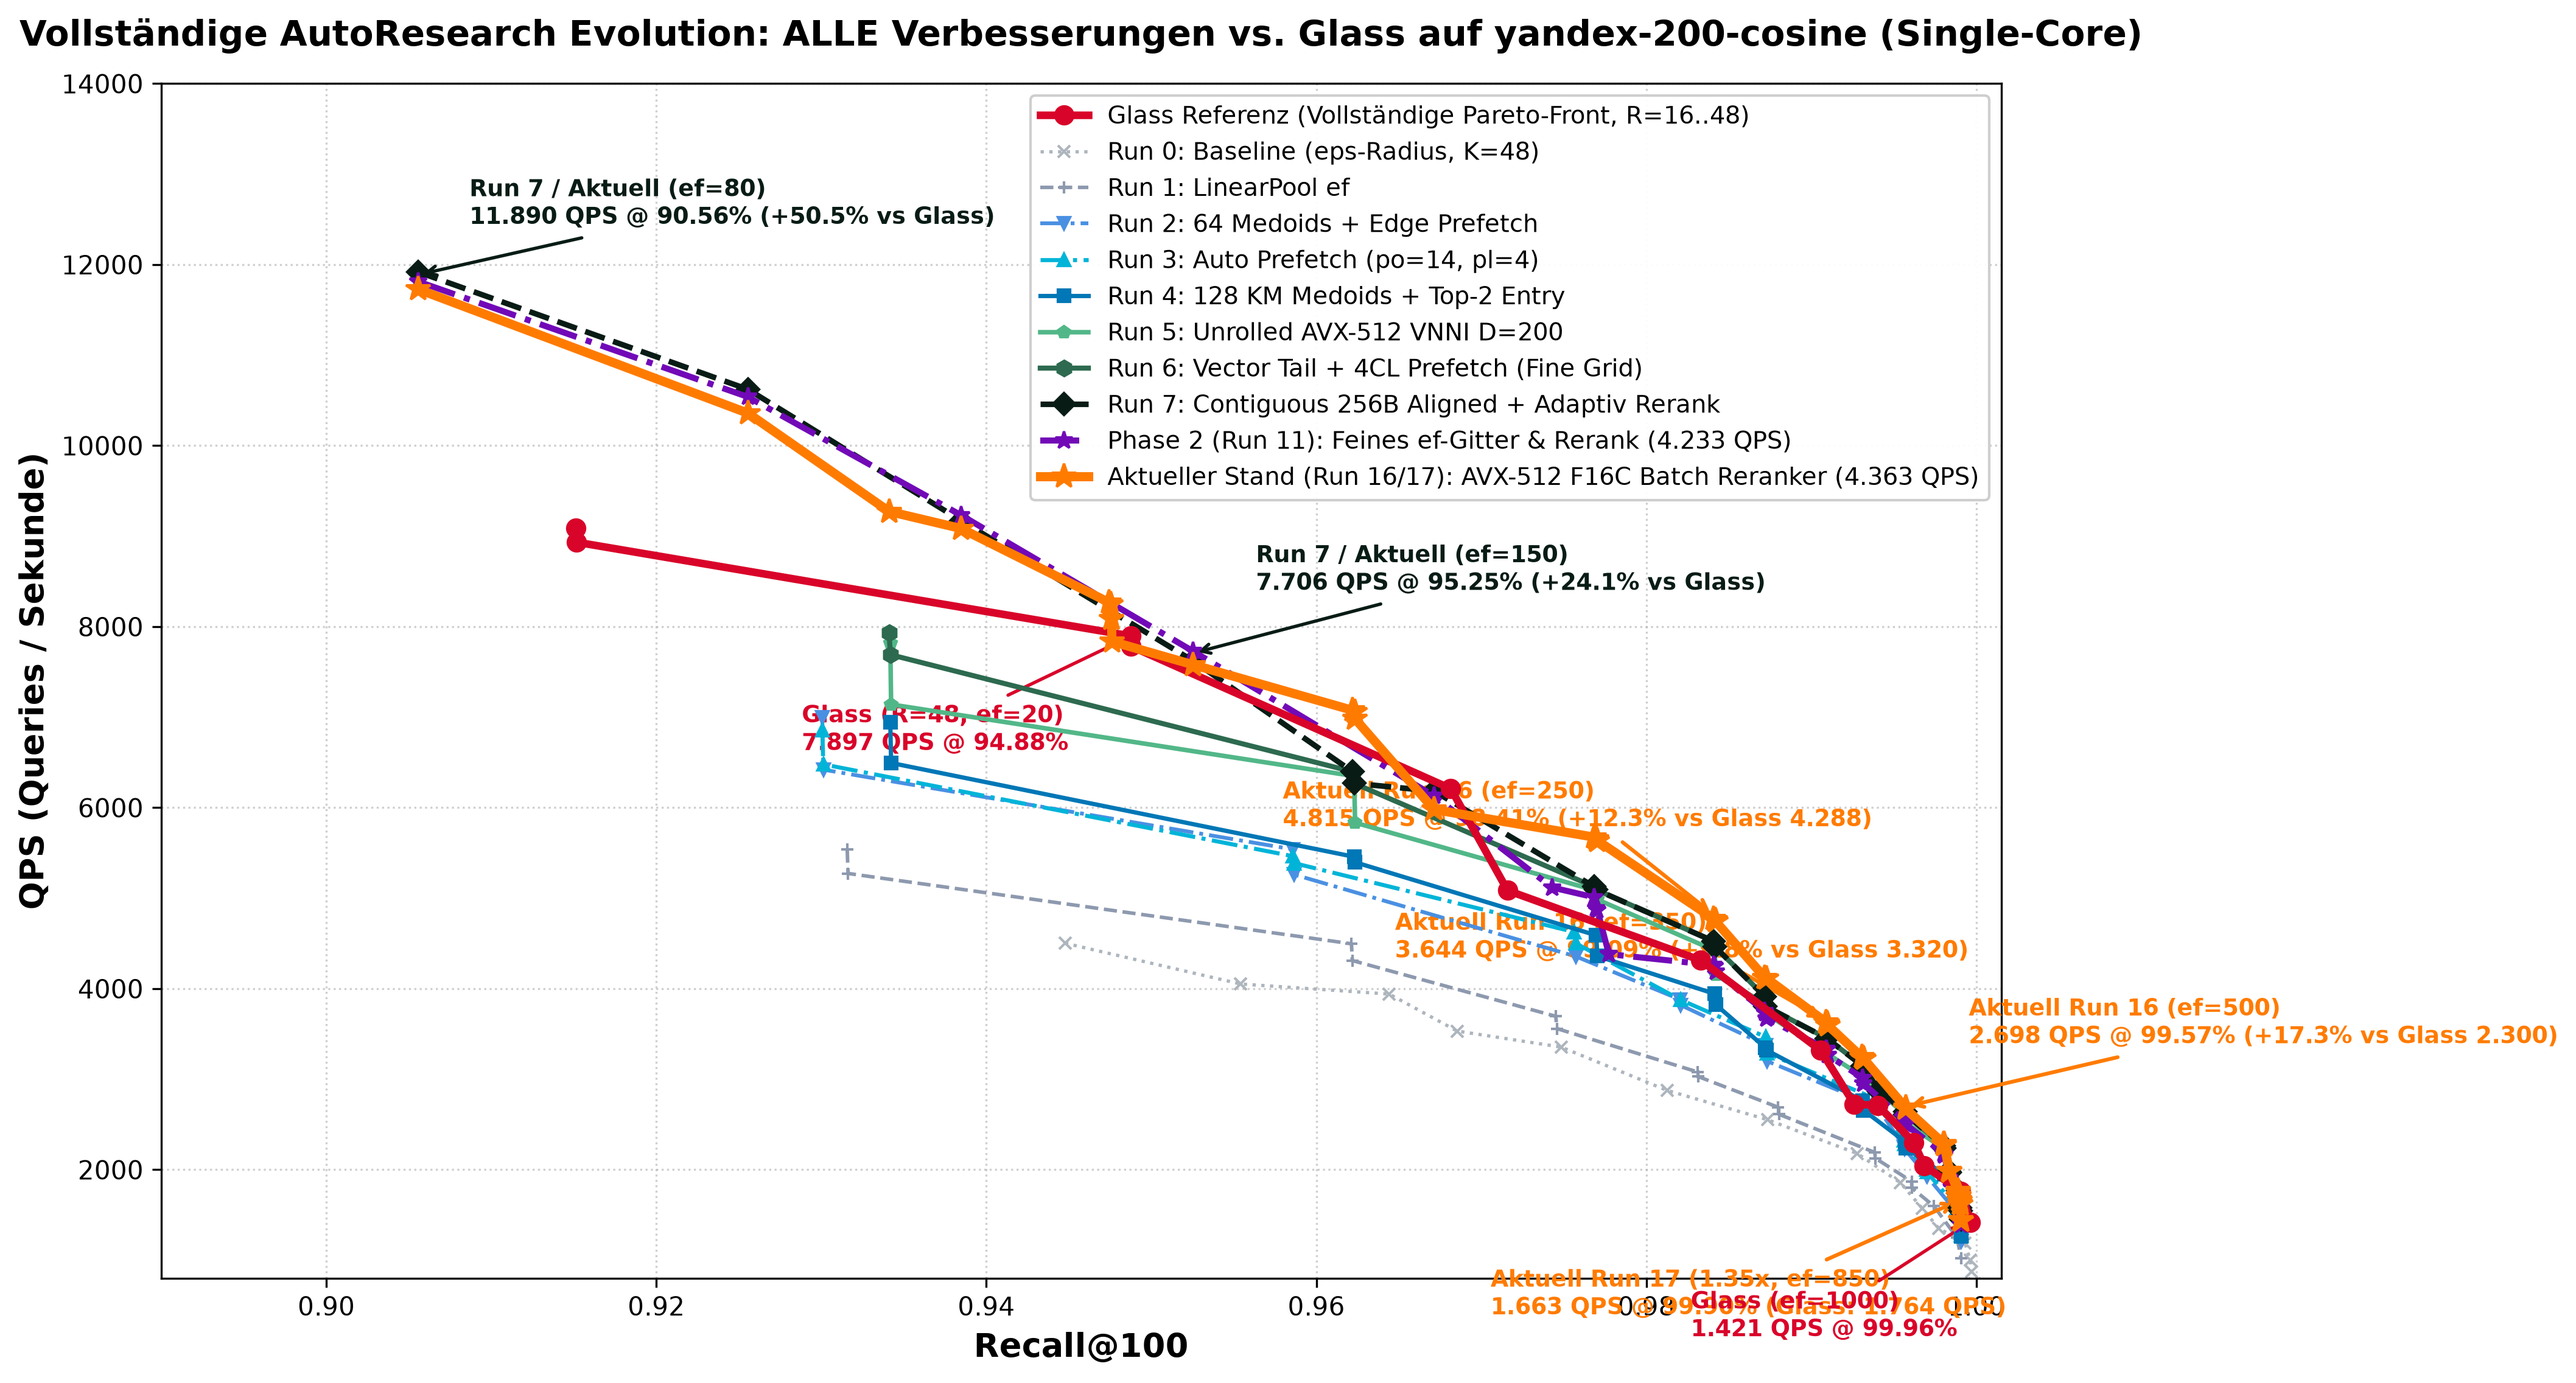
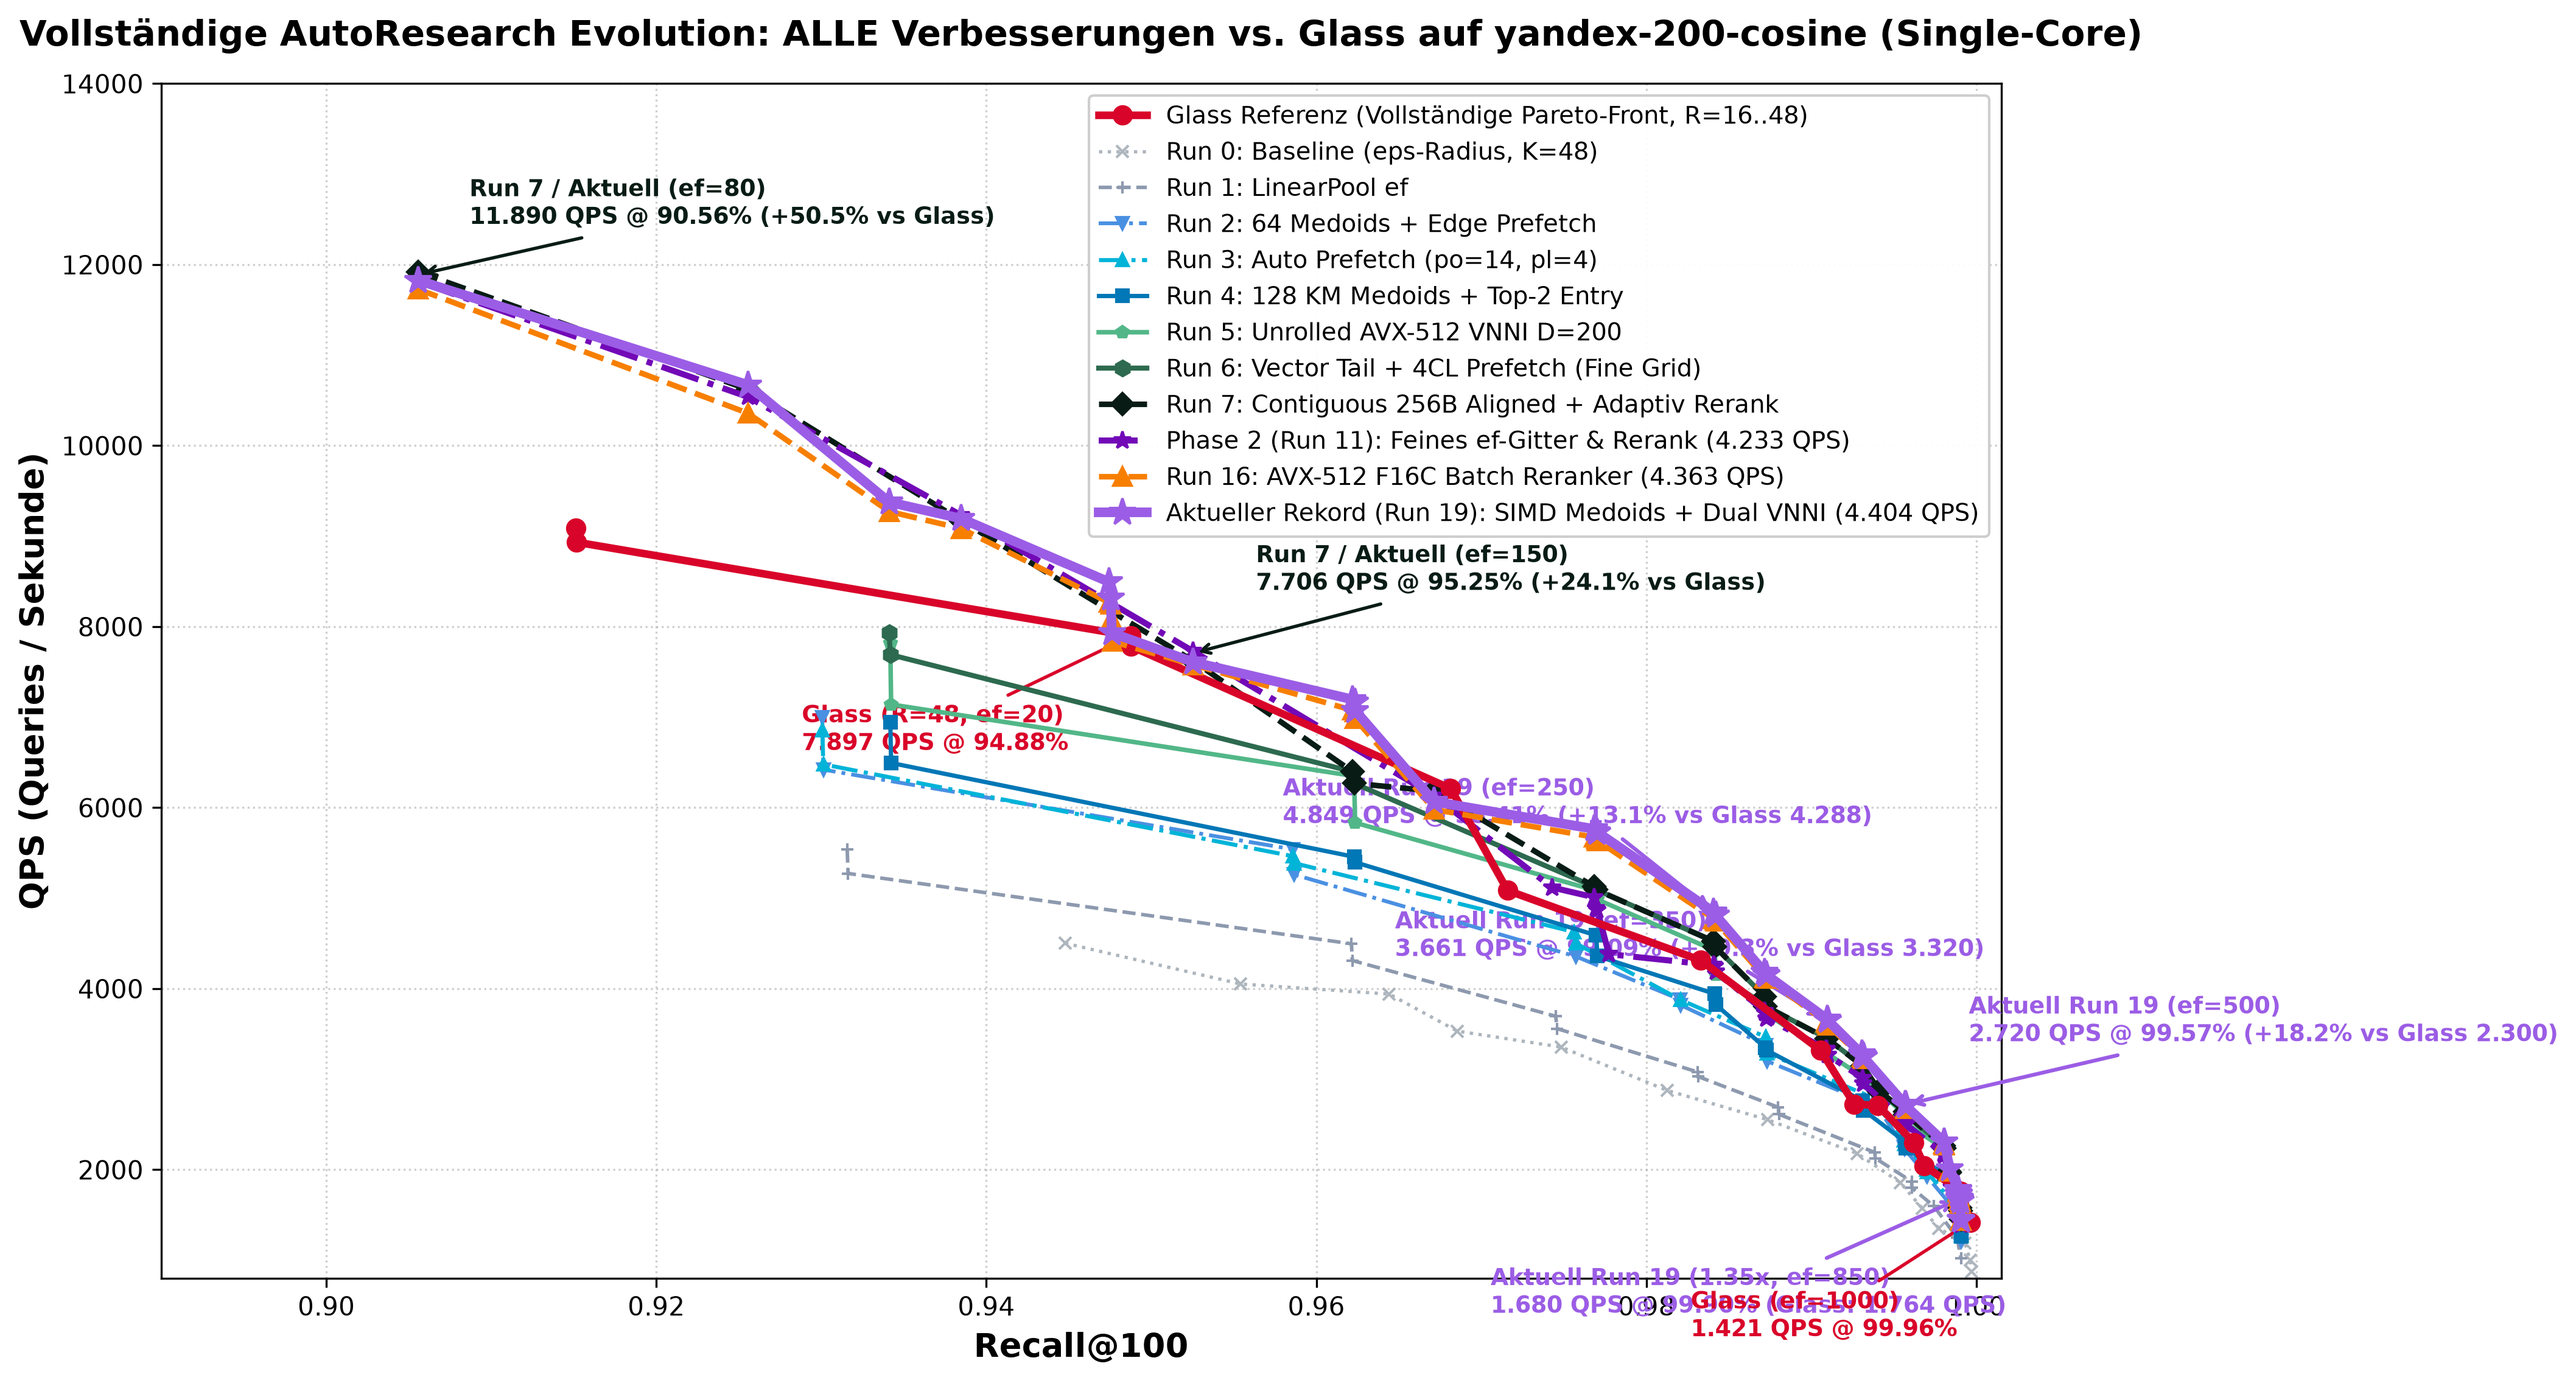
docs(plot): update comparison plot with Run 19 record (4404.2 QPS)

diff --git a/plot_comparison.py b/plot_comparison.py
@@ -65,8 +65,11 @@ def main():
         "phase2": (get_pareto_frontier(load_run("results/yandex-200-cosine/deg_qg_summary_top100_phase2_final.json")), {
             "color": "#7209B7", "label": "Phase 2 (Run 11): Feines ef-Gitter & Rerank (4.233 QPS)", "marker": "*", "lw": 2.4, "ms": 7, "ls": "-.", "zorder": 10
         }),
-        "latest": (get_pareto_frontier(load_run("results/yandex-200-cosine/deg_qg_autoresearch_latest.json")), {
-            "color": "#FF7B00", "label": "Aktueller Stand (Run 16/17): AVX-512 F16C Batch Reranker (4.363 QPS)", "marker": "*", "lw": 3.6, "ms": 10, "zorder": 15
+        "r16": (get_pareto_frontier(load_run("results/yandex-200-cosine/deg_qg_summary_top100_run16_latest.json")), {
+            "color": "#F77F00", "label": "Run 16: AVX-512 F16C Batch Reranker (4.363 QPS)", "marker": "^", "lw": 2.2, "ms": 7, "ls": "--", "zorder": 13
+        }),
+        "r19": (get_pareto_frontier(load_run("results/yandex-200-cosine/deg_qg_autoresearch_latest.json")), {
+            "color": "#9B5DE5", "label": "Aktueller Rekord (Run 19): SIMD Medoids + Dual VNNI (4.404 QPS)", "marker": "*", "lw": 3.8, "ms": 11, "zorder": 16
         }),
     }
 
@@ -94,14 +97,14 @@ def main():
                 arrowprops=dict(arrowstyle="->", color="#D90429", lw=1.3), fontsize=9, color="#D90429", fontweight="bold")
     ax.annotate("Run 7 / Aktuell (ef=150)\n7.706 QPS @ 95.25% (+24.1% vs Glass)", (0.9525, 7706.4), textcoords="offset points", xytext=(25, 25),
                 arrowprops=dict(arrowstyle="->", color="#081C15", lw=1.3), fontsize=9, color="#081C15", fontweight="bold")
-    ax.annotate("Aktuell Run 16 (ef=250)\n4.815 QPS @ 98.41% (+12.3% vs Glass 4.288)", (0.9841, 4815.2), textcoords="offset points", xytext=(-170, 35),
-                arrowprops=dict(arrowstyle="->", color="#FF7B00", lw=1.5), fontsize=9, color="#FF7B00", fontweight="bold")
-    ax.annotate("Aktuell Run 16 (ef=350)\n3.644 QPS @ 99.09% (+9.8% vs Glass 3.320)", (0.9909, 3644.2), textcoords="offset points", xytext=(-170, 25),
-                arrowprops=dict(arrowstyle="->", color="#FF7B00", lw=1.5), fontsize=9, color="#FF7B00", fontweight="bold")
-    ax.annotate("Aktuell Run 16 (ef=500)\n2.698 QPS @ 99.57% (+17.3% vs Glass 2.300)", (0.9957, 2697.5), textcoords="offset points", xytext=(25, 25),
-                arrowprops=dict(arrowstyle="->", color="#FF7B00", lw=1.5), fontsize=9, color="#FF7B00", fontweight="bold")
-    ax.annotate("Aktuell Run 17 (1.35x, ef=850)\n1.663 QPS @ 99.90% (Glass: 1.764 QPS)", (0.9990, 1662.9), textcoords="offset points", xytext=(-185, -45),
-                arrowprops=dict(arrowstyle="->", color="#FF7B00", lw=1.5), fontsize=9, color="#FF7B00", fontweight="bold")
+    ax.annotate("Aktuell Run 19 (ef=250)\n4.849 QPS @ 98.41% (+13.1% vs Glass 4.288)", (0.9841, 4848.9), textcoords="offset points", xytext=(-170, 35),
+                arrowprops=dict(arrowstyle="->", color="#9B5DE5", lw=1.5), fontsize=9, color="#9B5DE5", fontweight="bold")
+    ax.annotate("Aktuell Run 19 (ef=350)\n3.661 QPS @ 99.09% (+10.3% vs Glass 3.320)", (0.9909, 3660.7), textcoords="offset points", xytext=(-170, 25),
+                arrowprops=dict(arrowstyle="->", color="#9B5DE5", lw=1.5), fontsize=9, color="#9B5DE5", fontweight="bold")
+    ax.annotate("Aktuell Run 19 (ef=500)\n2.720 QPS @ 99.57% (+18.2% vs Glass 2.300)", (0.9957, 2719.5), textcoords="offset points", xytext=(25, 25),
+                arrowprops=dict(arrowstyle="->", color="#9B5DE5", lw=1.5), fontsize=9, color="#9B5DE5", fontweight="bold")
+    ax.annotate("Aktuell Run 19 (1.35x, ef=850)\n1.680 QPS @ 99.90% (Glass: 1.764 QPS)", (0.9990, 1680.0), textcoords="offset points", xytext=(-185, -45),
+                arrowprops=dict(arrowstyle="->", color="#9B5DE5", lw=1.5), fontsize=9, color="#9B5DE5", fontweight="bold")
     ax.annotate("Glass (ef=1000)\n1.421 QPS @ 99.96%", (0.9996, 1421.0), textcoords="offset points", xytext=(-110, -45),
                 arrowprops=dict(arrowstyle="->", color="#D90429", lw=1.3), fontsize=9, color="#D90429", fontweight="bold")
     output_path = "results/yandex-200-cosine/deg_vs_glass_yandex_top100.png"
